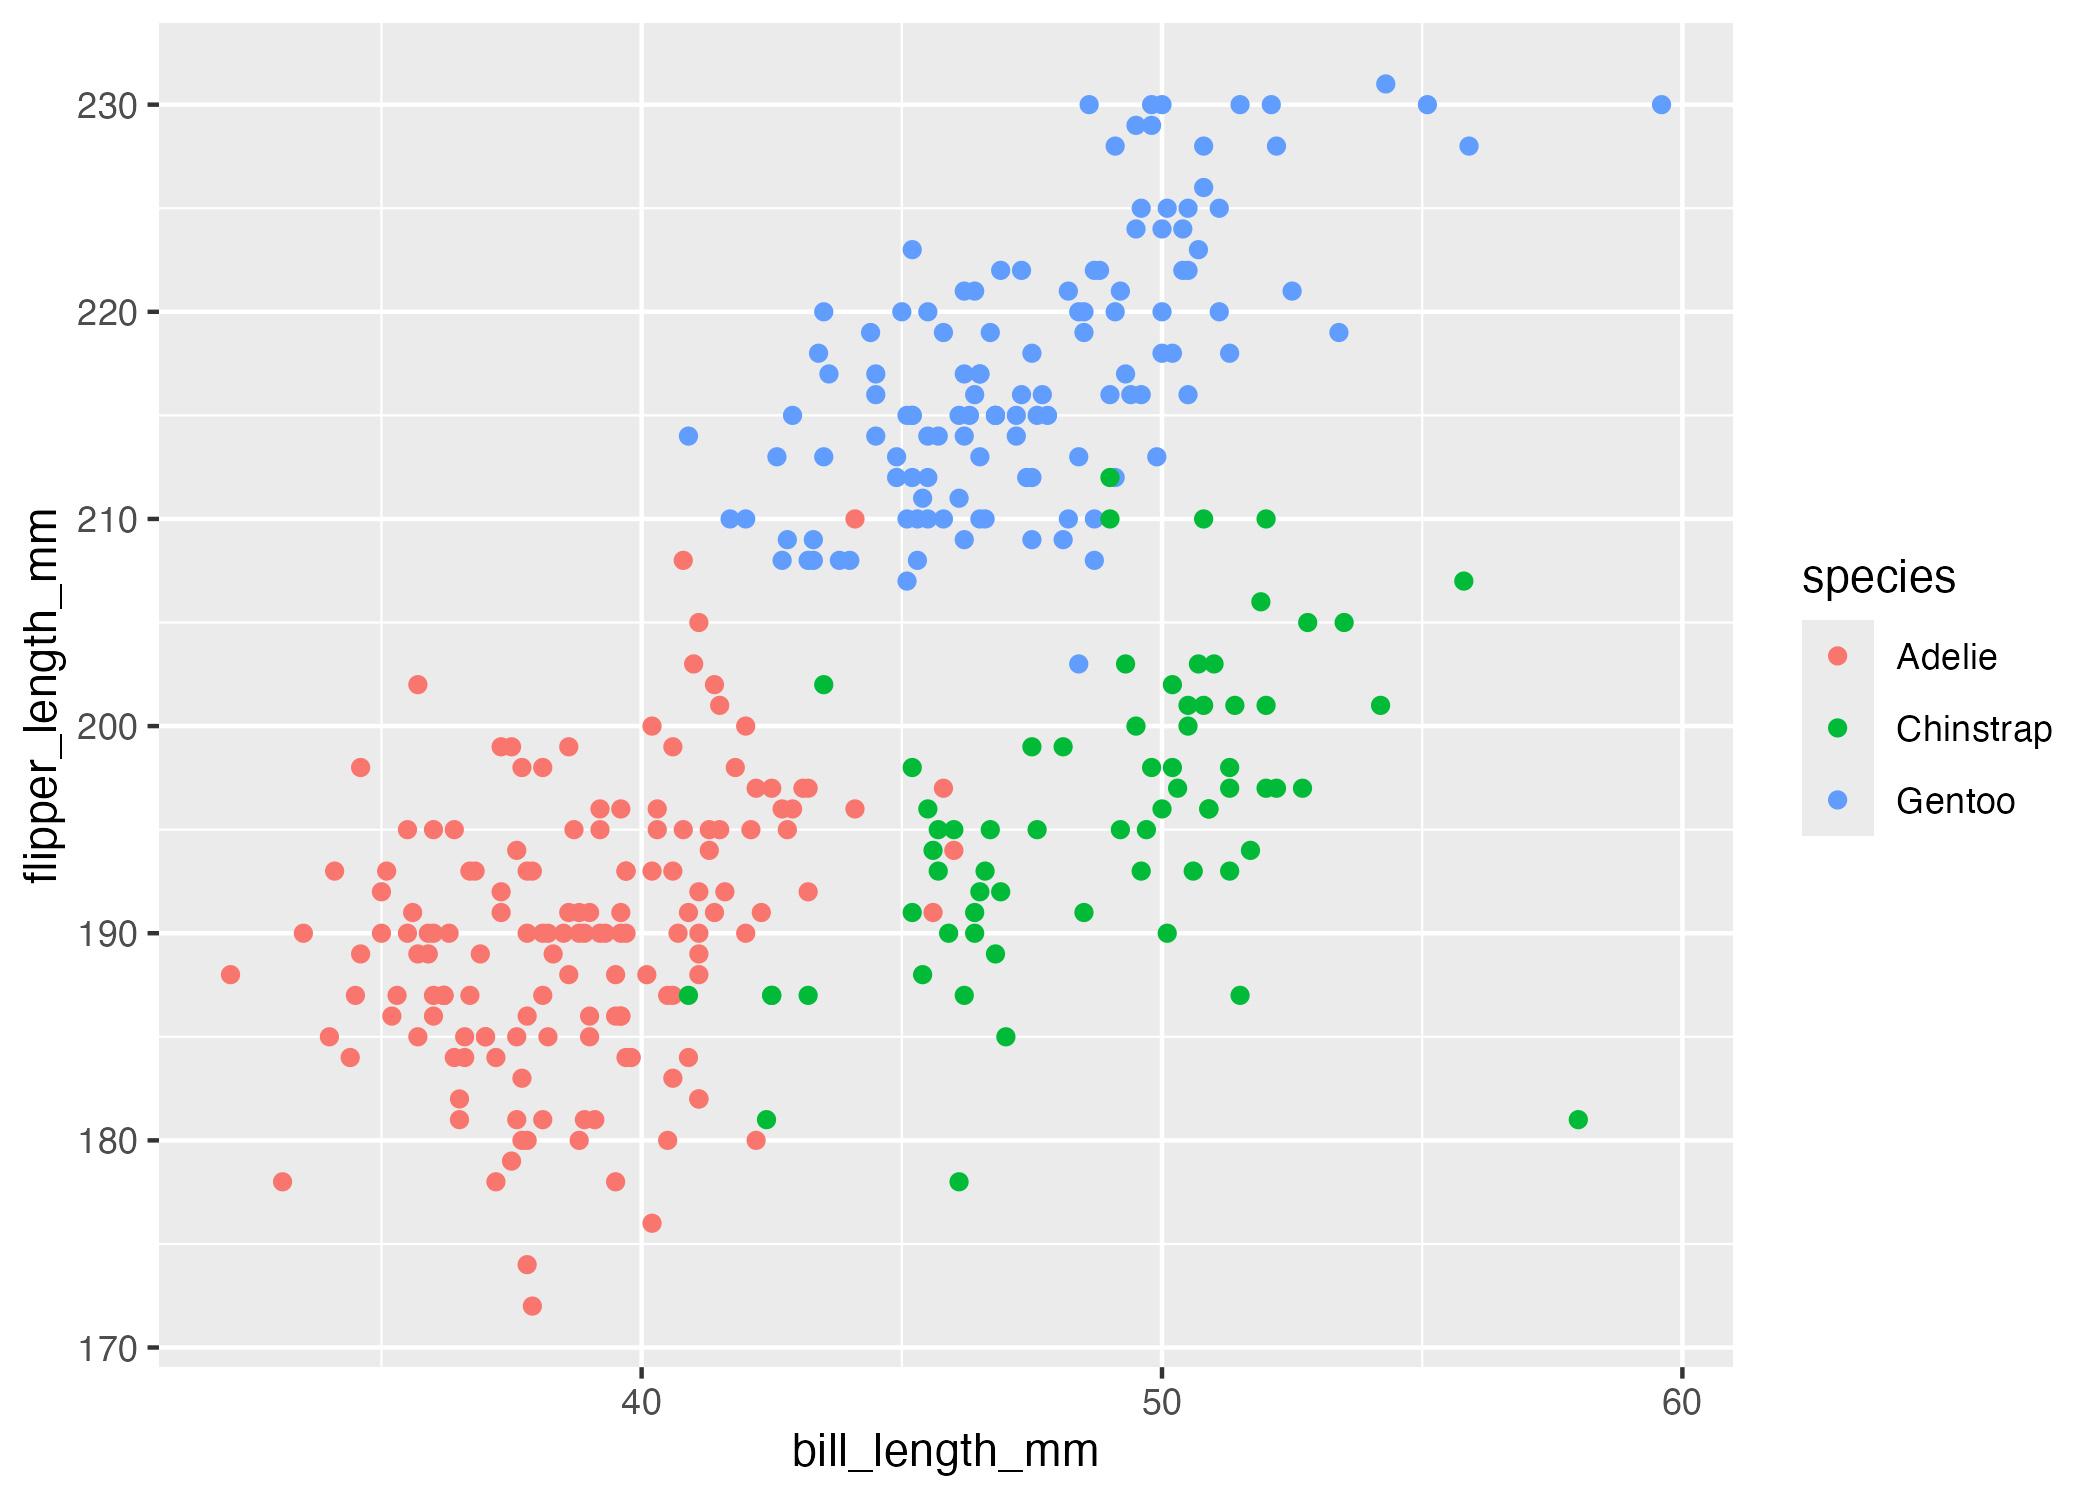
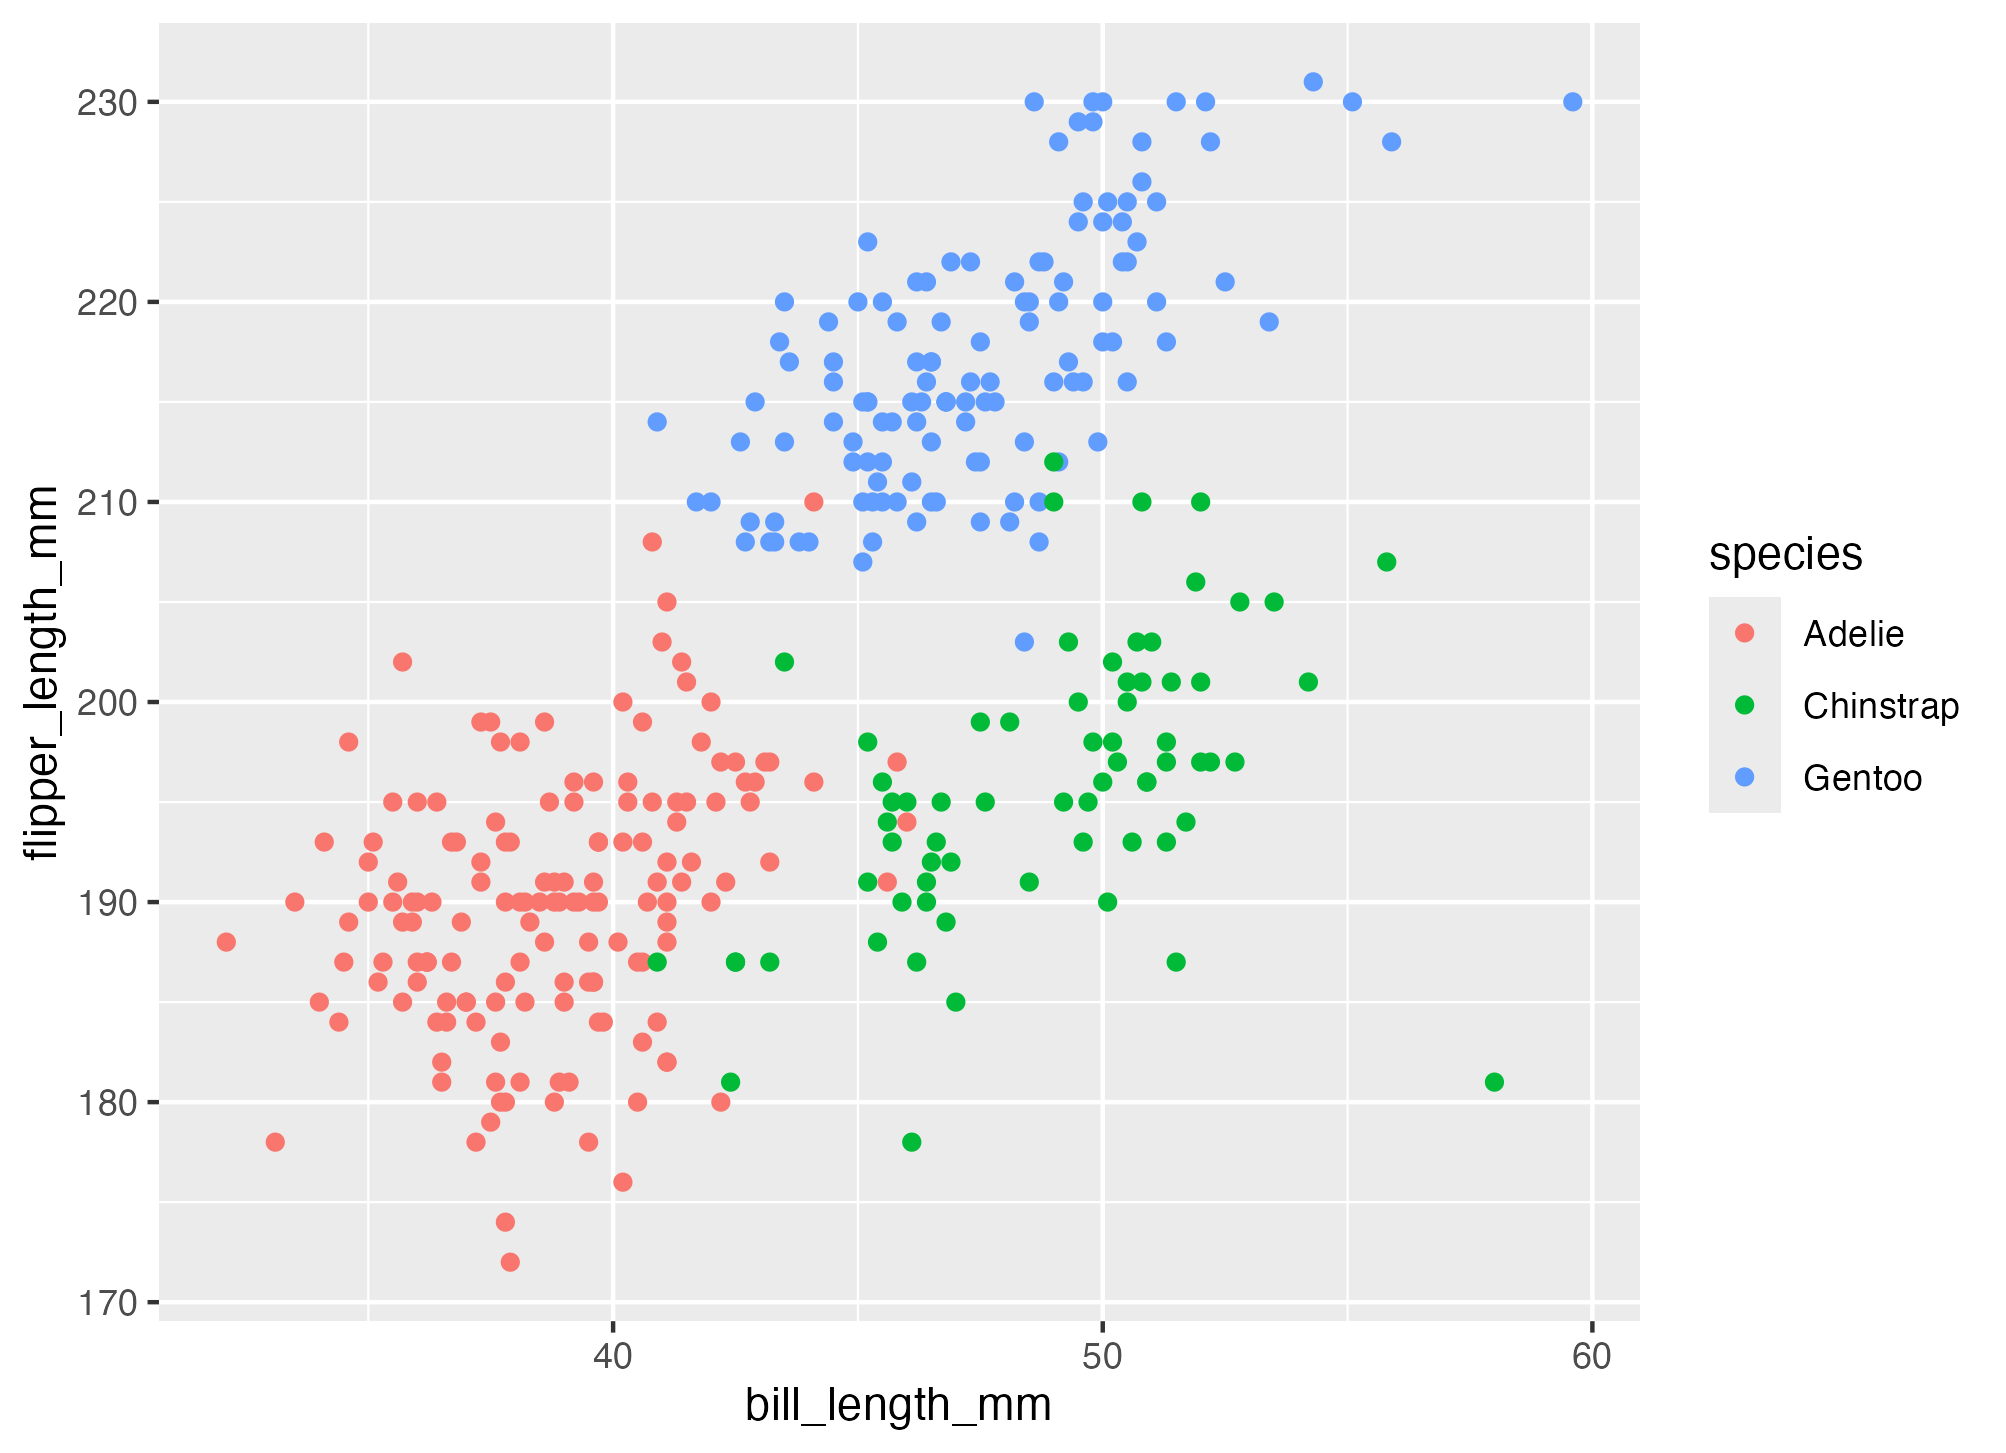
Trying to figure out if there is a way to include the range of data values in a single column of the penguins dataset.

diff --git a/p8105_hw1_eej2124.md b/p8105_hw1_eej2124.md
@@ -20,7 +20,7 @@ length is 200.92 mm.
 
 # How do I include “values” of important variables? - say stuff about range of data
 
-### Scatterplot
+### Making a scatterplot
 
 ``` r
 ggplot(penguins, aes(x = bill_length_mm, y = flipper_length_mm, color = species)) + geom_point()
@@ -30,8 +30,9 @@ ggplot(penguins, aes(x = bill_length_mm, y = flipper_length_mm, color = species)
     ## (`geom_point()`).
 
 ![](p8105_hw1_eej2124_files/figure-gfm/unnamed-chunk-3-1.png)<!-- -->
-
-# Should I clean up this scatterplot - axis titles, etc?
+This scatterplot examines the relationship between bill length and
+flipper length of three different species of penguins. \# Should I clean
+up this scatterplot - axis titles, etc?
 
 ``` r
 ggsave("scatterplot.png")
